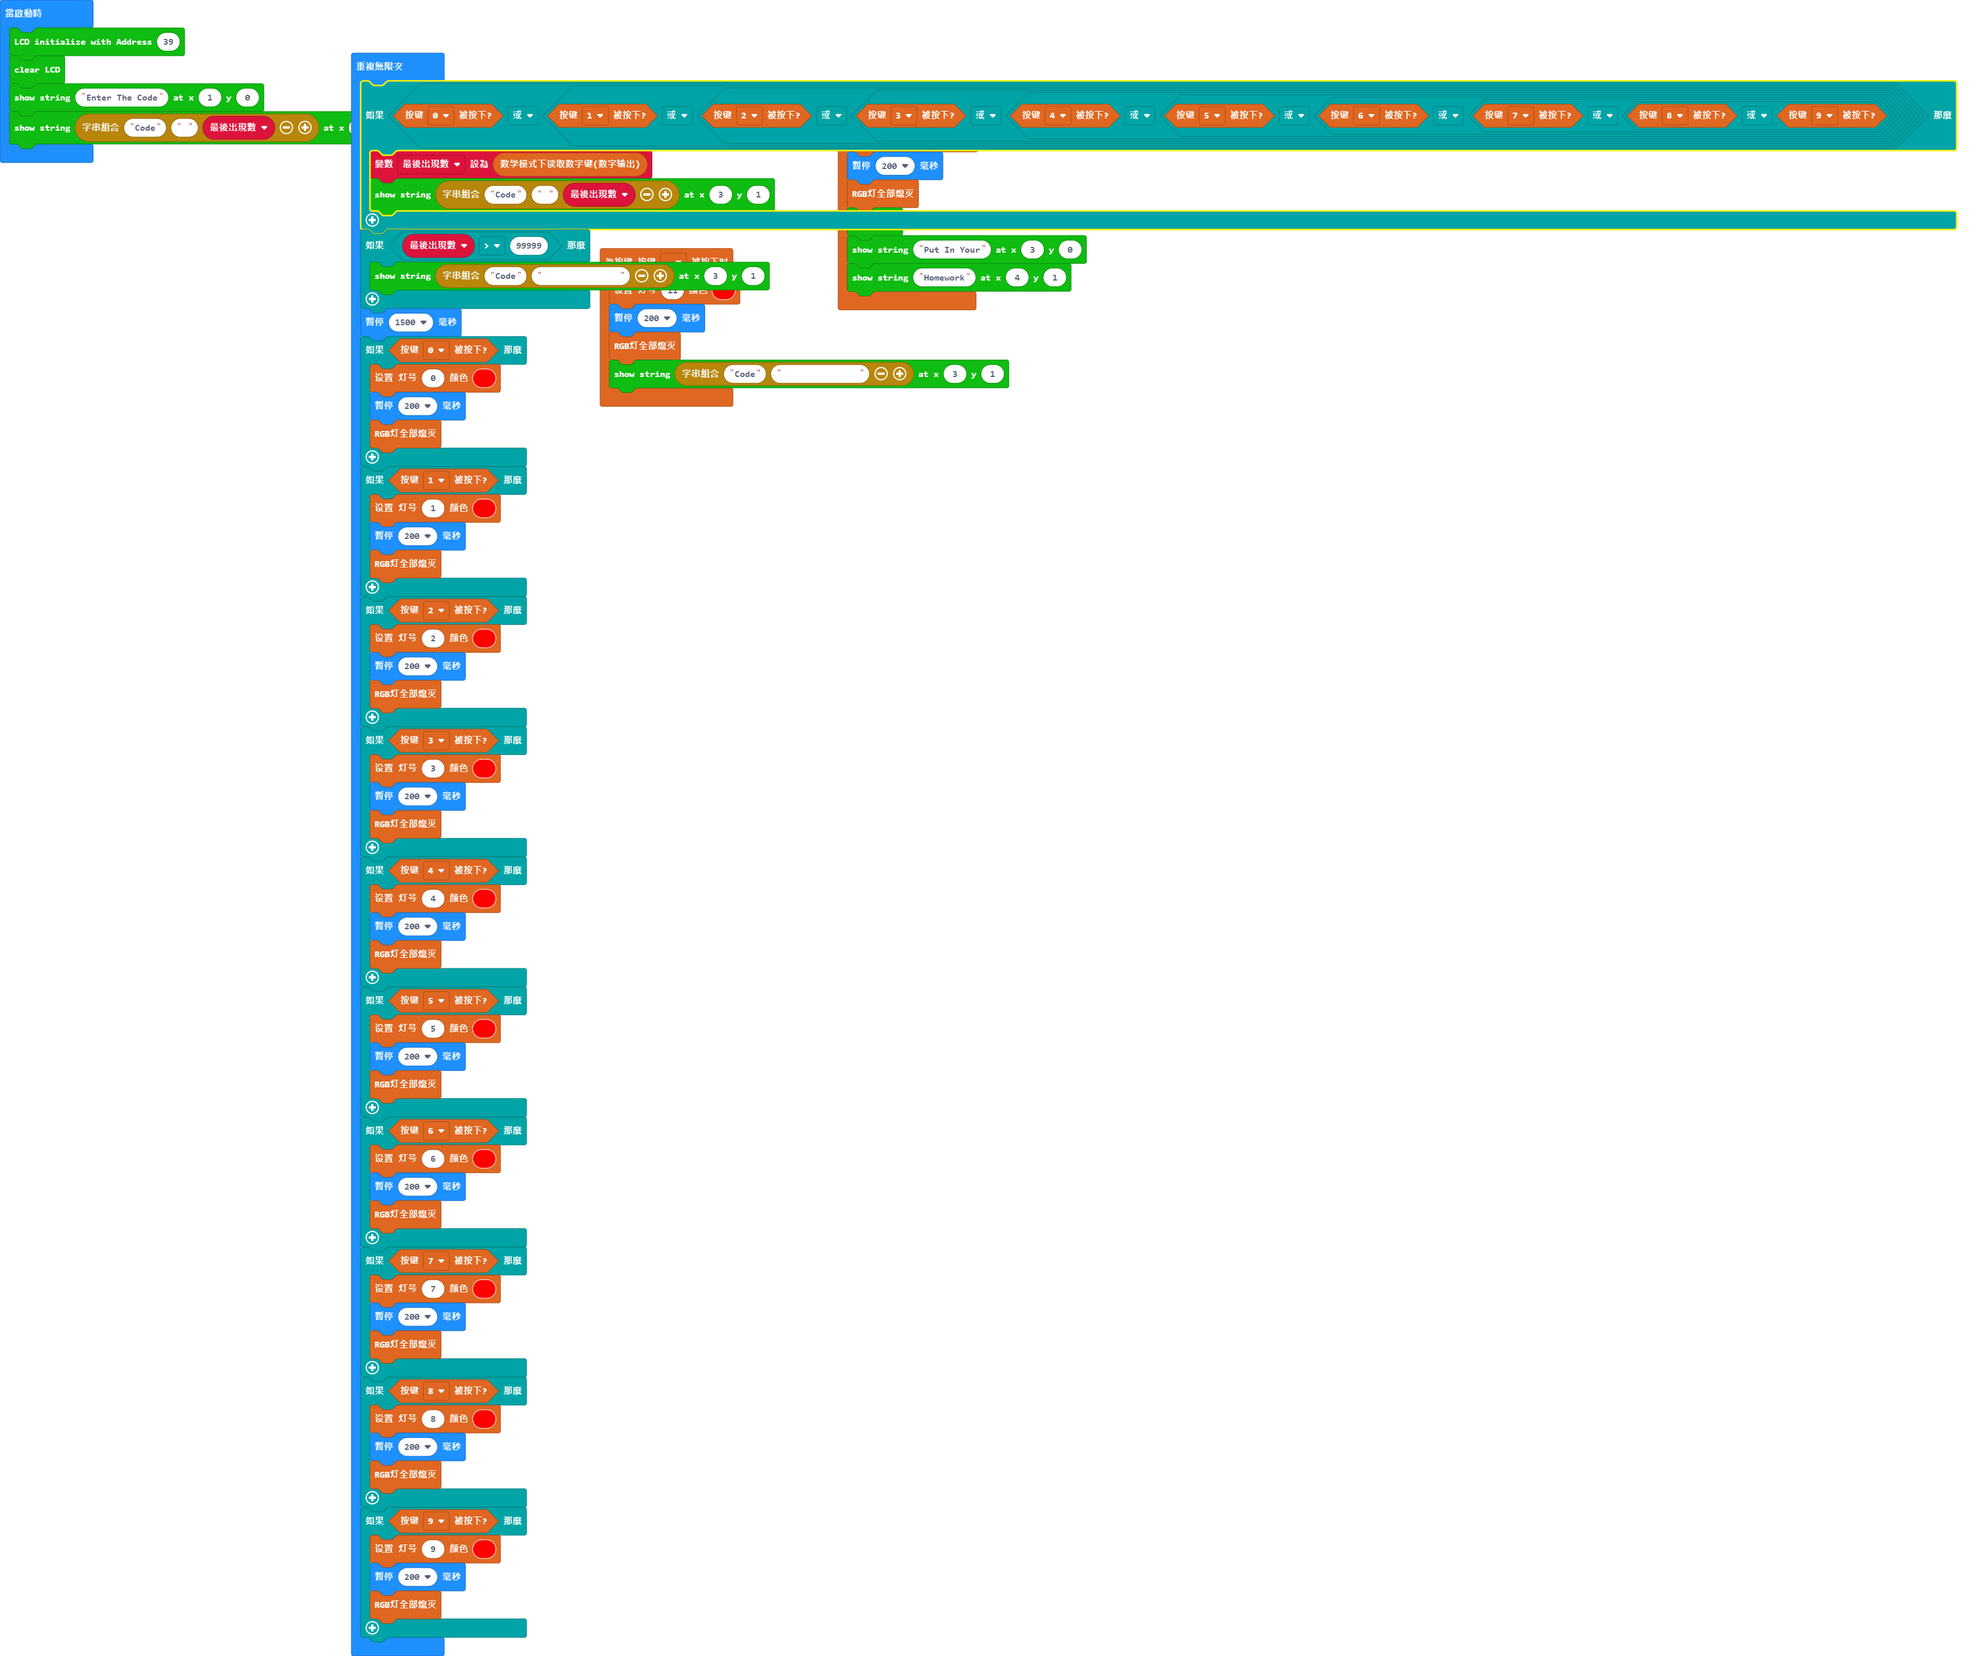
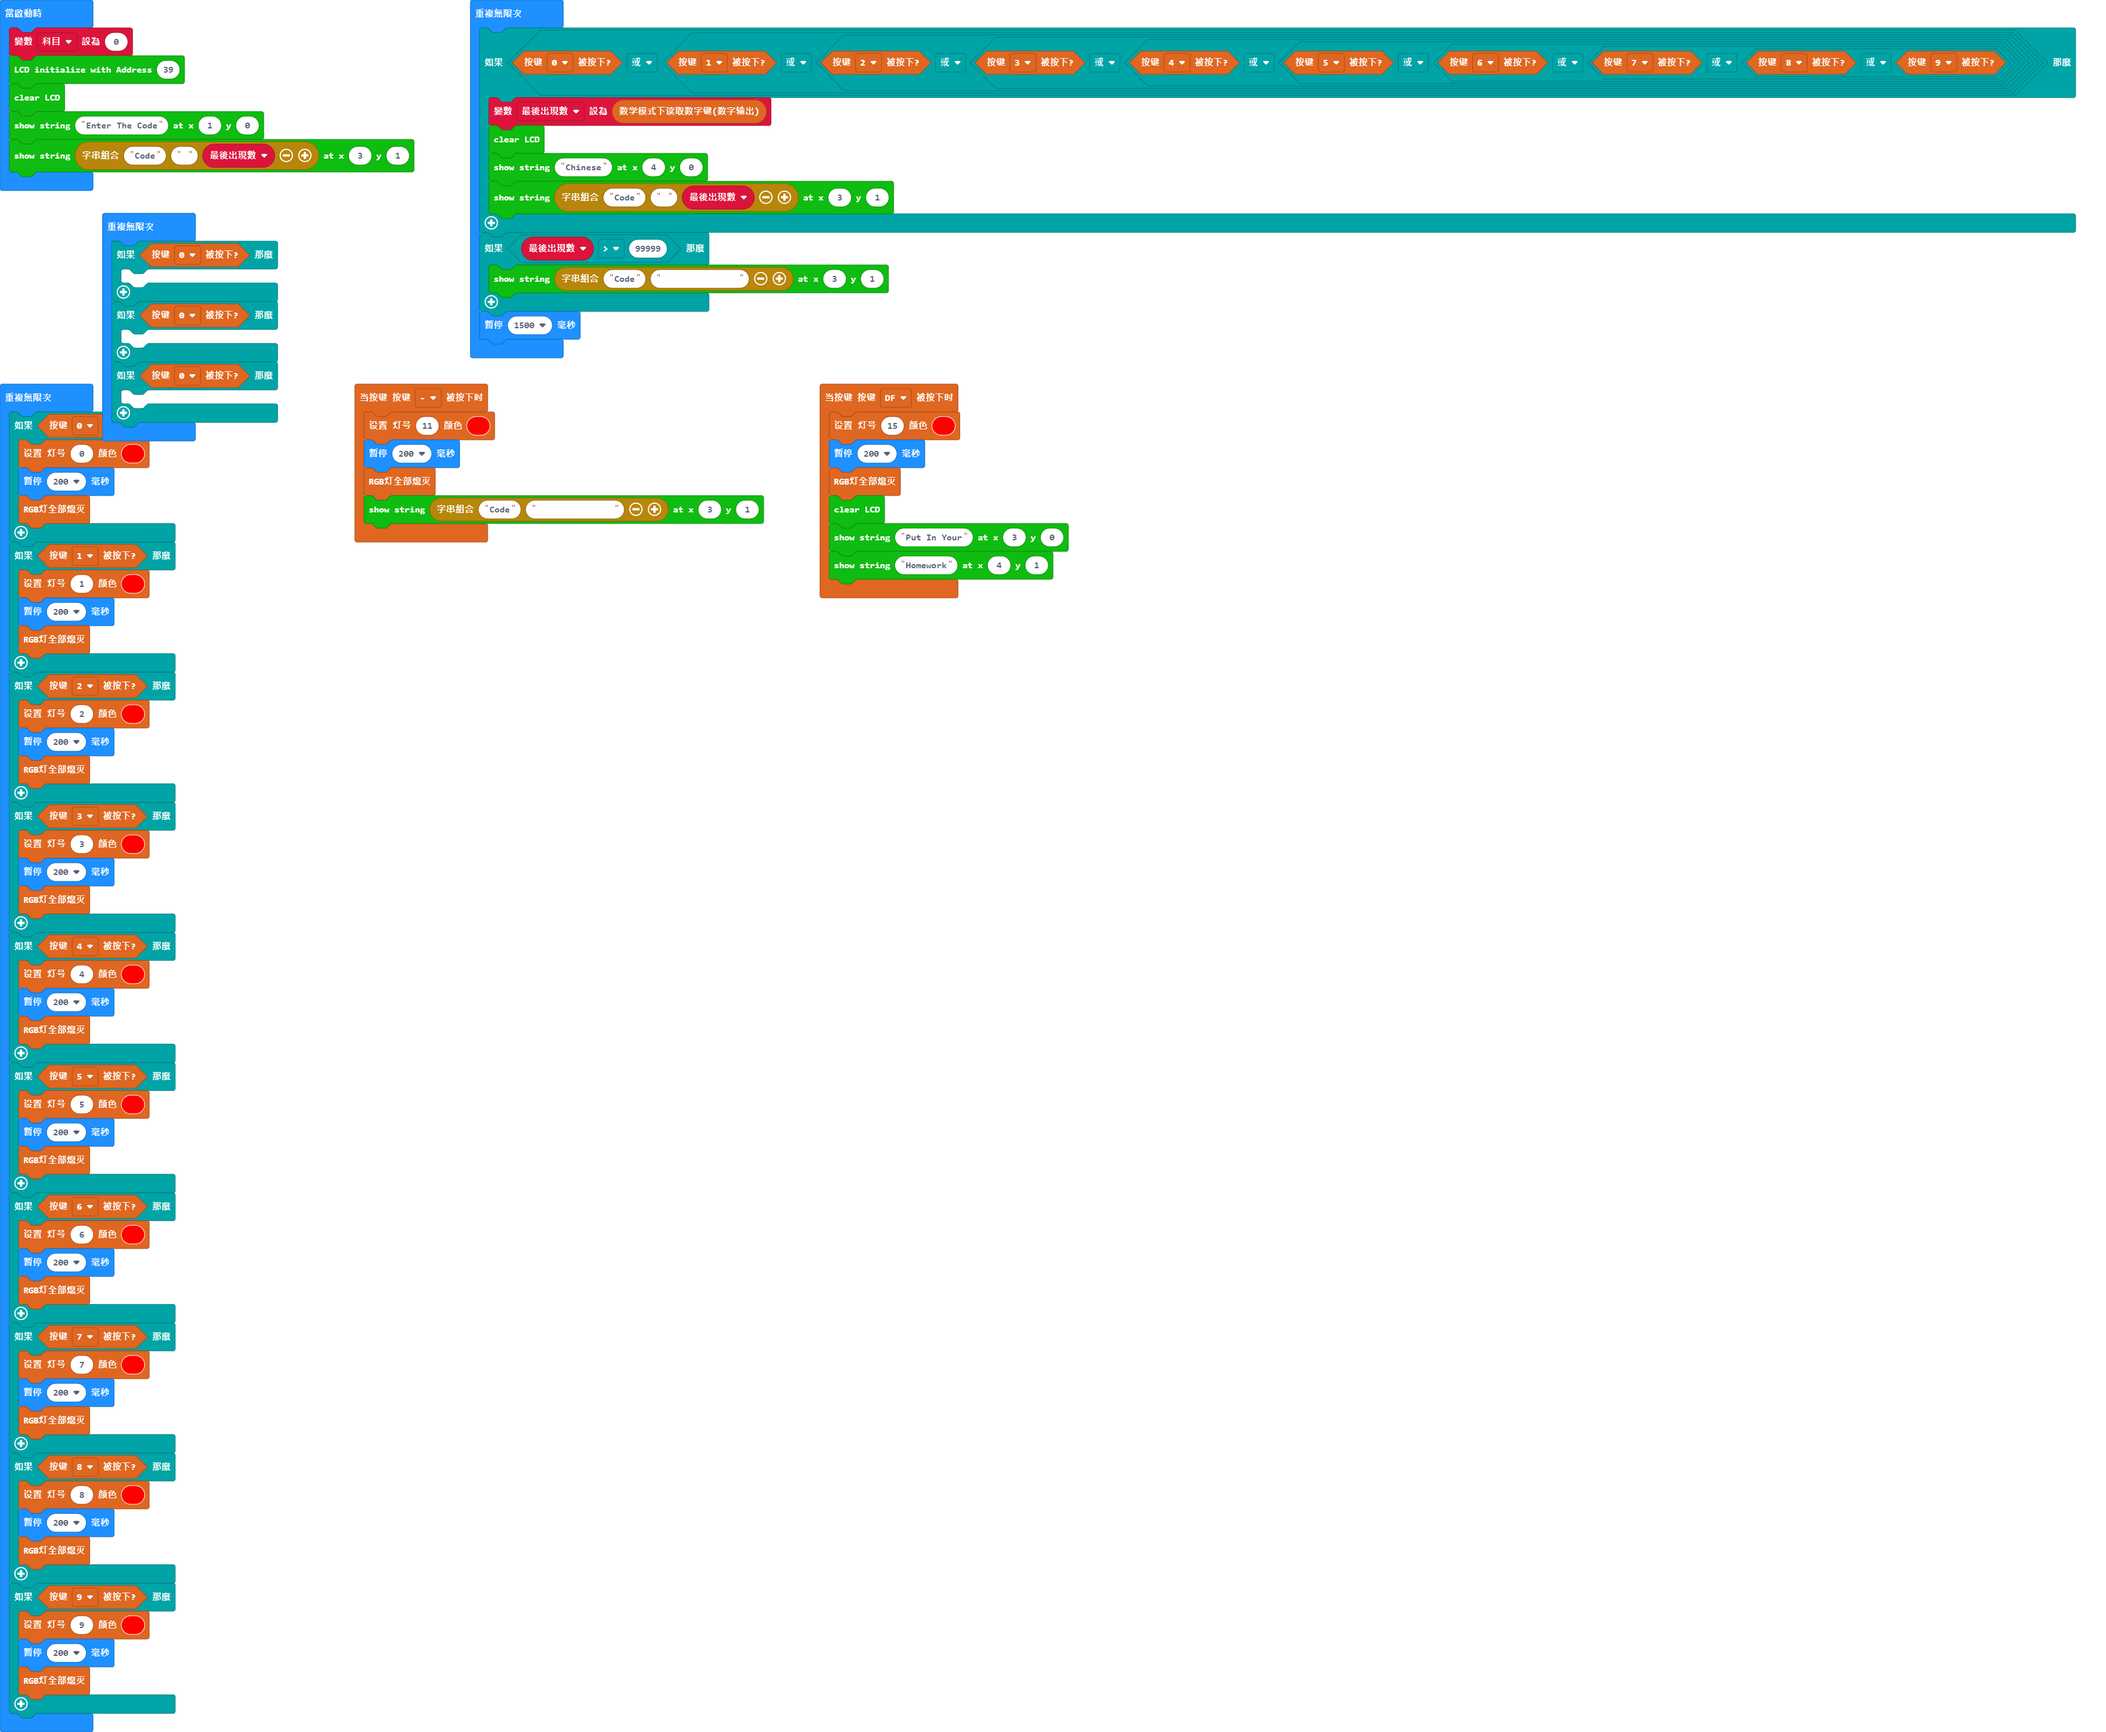
更新 main.blocks, main.ts

Changed region(s): [[0.0, 0.0, 0.9915, 1.0]]

diff --git a/main.ts b/main.ts
@@ -27,6 +27,17 @@ basic.forever(function () {
     }
     basic.pause(1500)
     if (keyboard.keyPressed(KeyValue.key0)) {
+    	
+    }
+    if (keyboard.keyPressed(KeyValue.key0)) {
+    	
+    }
+    if (keyboard.keyPressed(KeyValue.key0)) {
+    	
+    }
+})
+basic.forever(function () {
+    if (keyboard.keyPressed(KeyValue.key0)) {
         keyboard.setIndexColor(0, 0xff0000)
         basic.pause(200)
         keyboard.ledBlank()
